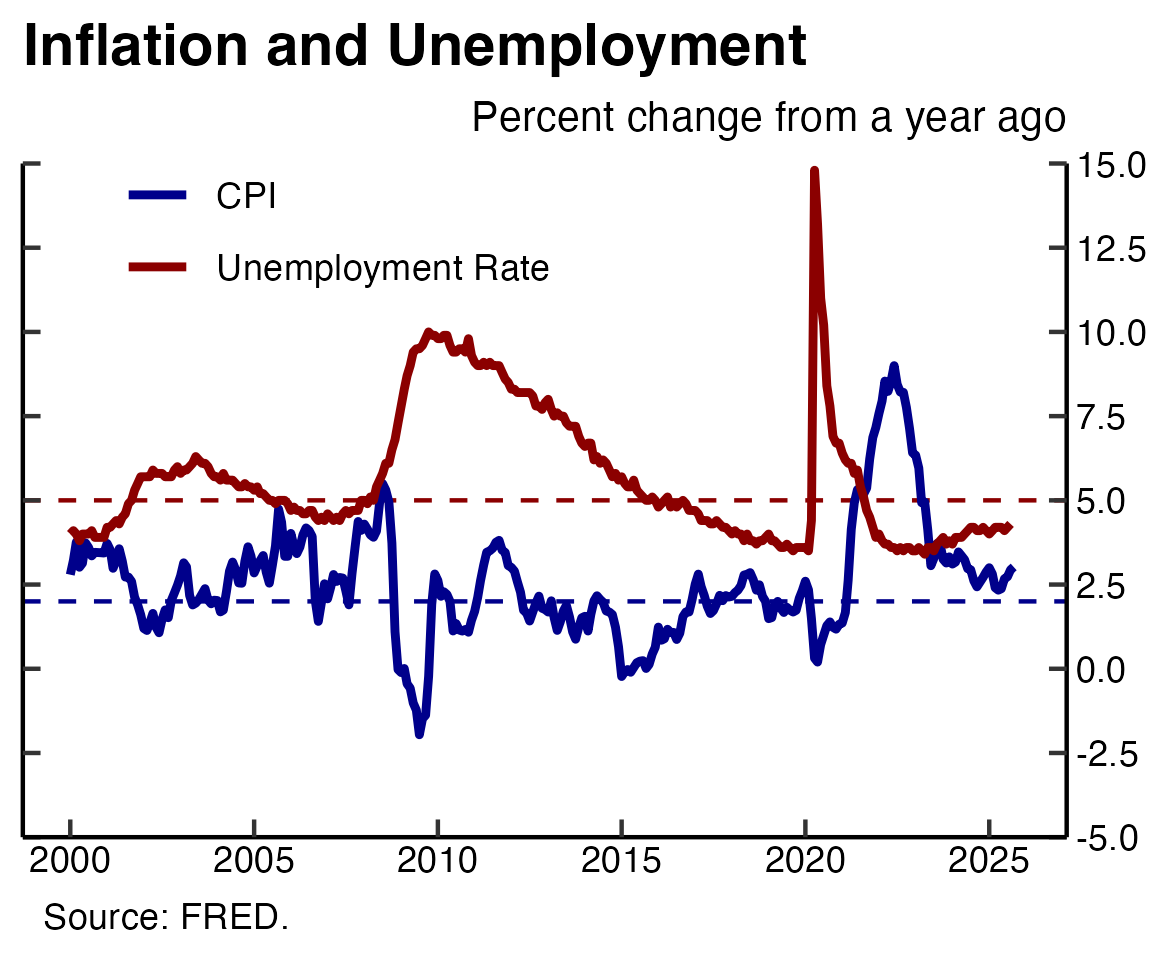
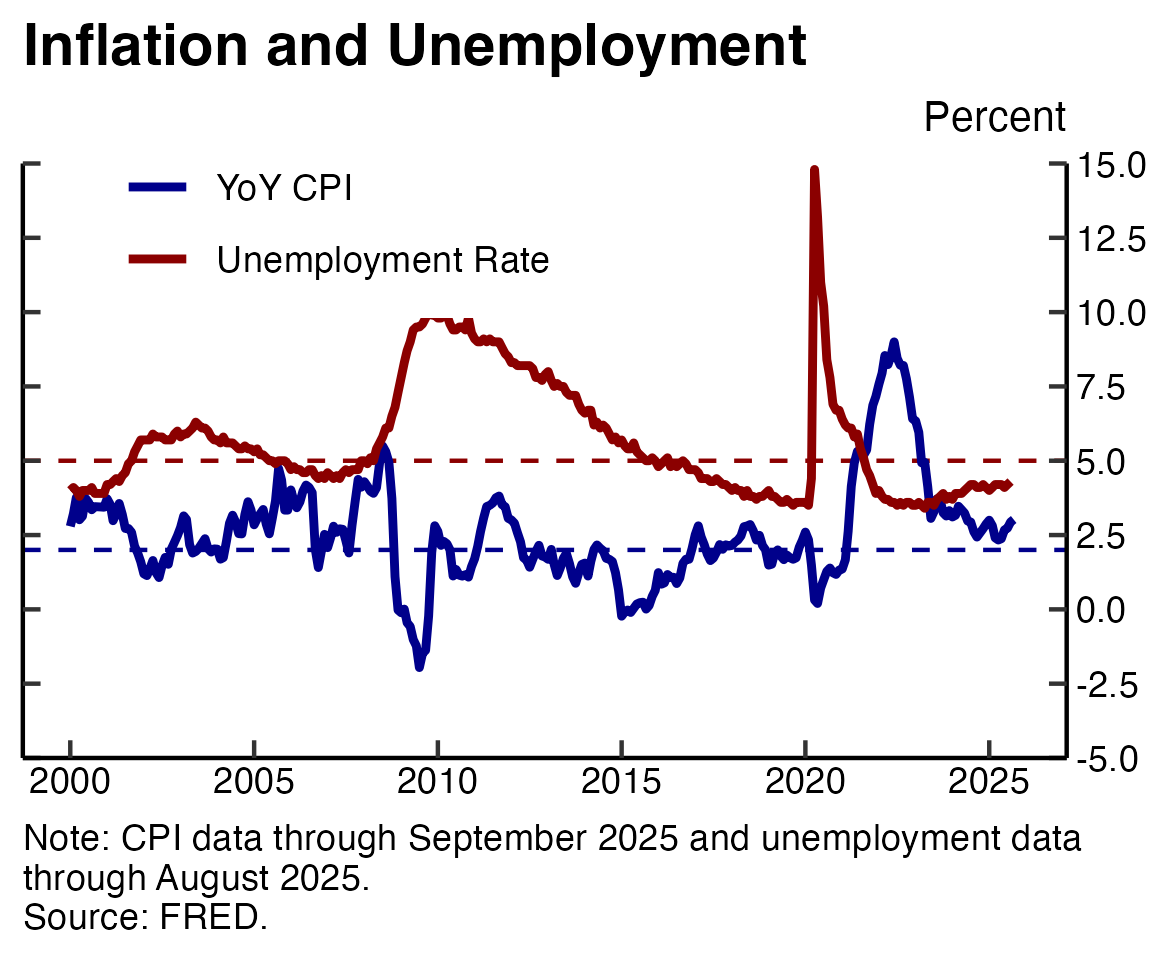
footnote plot 2

diff --git a/README.md b/README.md
@@ -2,7 +2,7 @@
 
 ## Plot #1
 
-I will be plotting data from the [Consumer Price Index for All Urban Consumers](https://fred.stlouisfed.org/graph/?g=1wmdD) and the [Unemployment Rate](https://fred.stlouisfed.org/series/UNRATE) from FRED via the `quantmod` library.
+I will be plotting the [Consumer Price Index for All Urban Consumers](https://fred.stlouisfed.org/graph/?g=1wmdD) and the [Unemployment Rate](https://fred.stlouisfed.org/series/UNRATE) from FRED via the `quantmod` library.
 
 ![Plot #1](plots/plot_cpi.png)
 
@@ -12,13 +12,9 @@ Do I need to add in another line break here? Certainly so. -->
 
 # Plot #2
 
-The chart below shows the percent change from a year ago in the CPI and the unemployment rate.
+The solid lines below show the percent change from a year ago in the consumer price index (CPI) and the unemployment rate. The dashed red and blue lines are the "natural rate of unemployment" and the Fed's target for annual inflation, respectively. 
 
-The dashed red and blue lines are the "natural rate of unemployment" and the Fed's inflation target, respectively. 
-
-Although the exact figure for the "natural rate of unemployment" is unkown, it usually hovers between four and five percent. 
-
-In this chart, I plotted it at 5%. The inflation target is plotted at 2%.
+Although the exact figure for the "natural rate of unemployment" is unkown - it usually hovers between four and five percent. Below, I plotted it at 5%. The inflation target is plotted at 2%.
 
 ![Plot #2](plots/plot_cpi_unrate.png)
 
